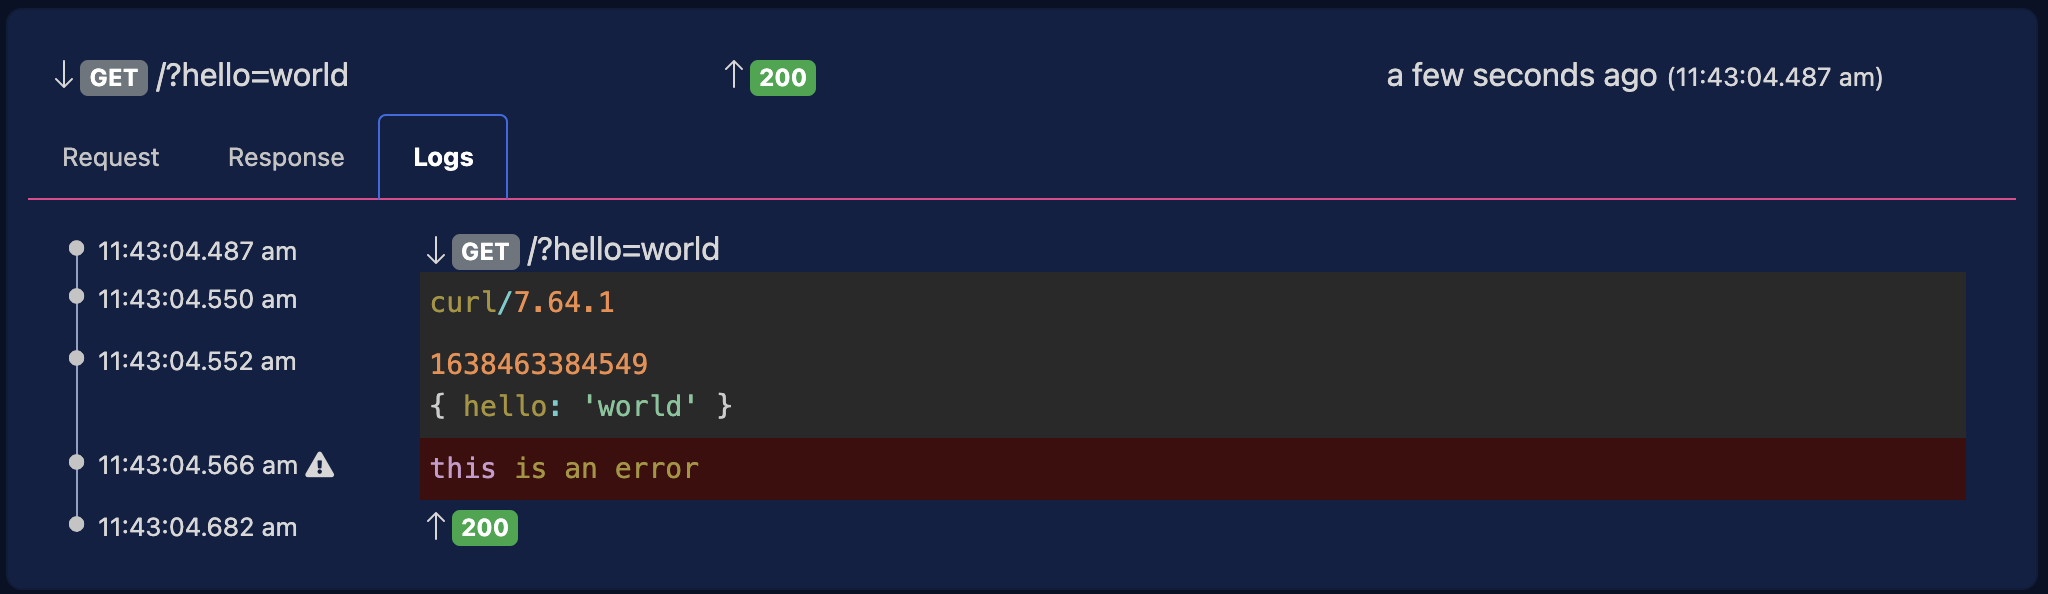
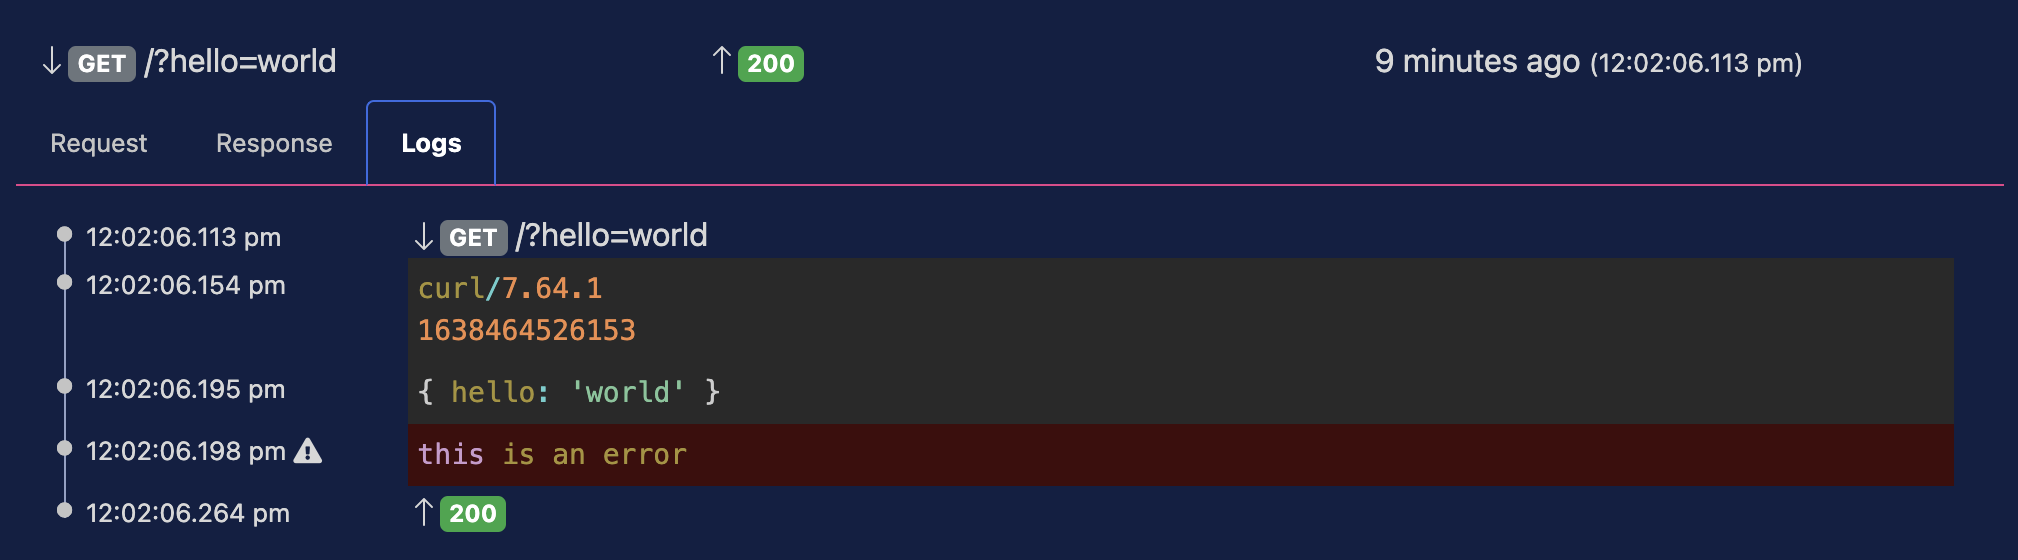
trnasactions docs

diff --git a/docs/concepts/transactions.md b/docs/concepts/transactions.md
@@ -30,13 +30,36 @@ Each transaction is composed of:
 
 ## Using transactions for analysis and debugging
 In a addition to the cyclic realtime log stream, transactions are a great way to understand what is happening in your application.
-Transactions are available as a tab on an application view.  
-![Transaction Request](/img/transactions/request.png "Transaction Request")
-![Transaction Response](/img/transactions/res.png "Transaction Response")
-![Transaction Timeline](/img/transactions/history.png "Transaction Timeline")
+Transactions are available as a tab on an application view, each request to an app is presented as a request-response pair.
+### Request
+Given a sample request made via `curl`
+  ```
+  $ curl 'https://my-app.cyclic.app/?hello=world'  
+  ok
+  ```
+The request payload can be viewed as:
+  ![Transaction Request](/img/transactions/request.png "Transaction Request")
+### Response
+Similarly, the details of the response are viewable as:
+  ![Transaction Response](/img/transactions/response.png "Transaction Response")
+### Timeline
+On the back end, we had a single api handler at the root `/` route implemented as:
+  ```
+    app.get('/',async (req, res) => {
+      console.log(req.headers['user-agent'])
+      console.log(Date.now())
+      console.error('this is an error')
+      console.log(req.query)
+      res.send('ok);
+    })
+  ```
+Cyclic presents the timeline of the logs, errors and exceptions in context of the request and response in an easy to read, syntax highlighted timeline as:
+  ![Transaction Timeline](/img/transactions/history.png "Transaction Timeline")
+  
 
-
-Cyclic currently allows viewing transactions from the last 15 minutes.
+## Limitations
+- Cyclic currently allows viewing transactions from the last 15 minutes.
+- Keyword and date filters are not yet available
 
 
 
